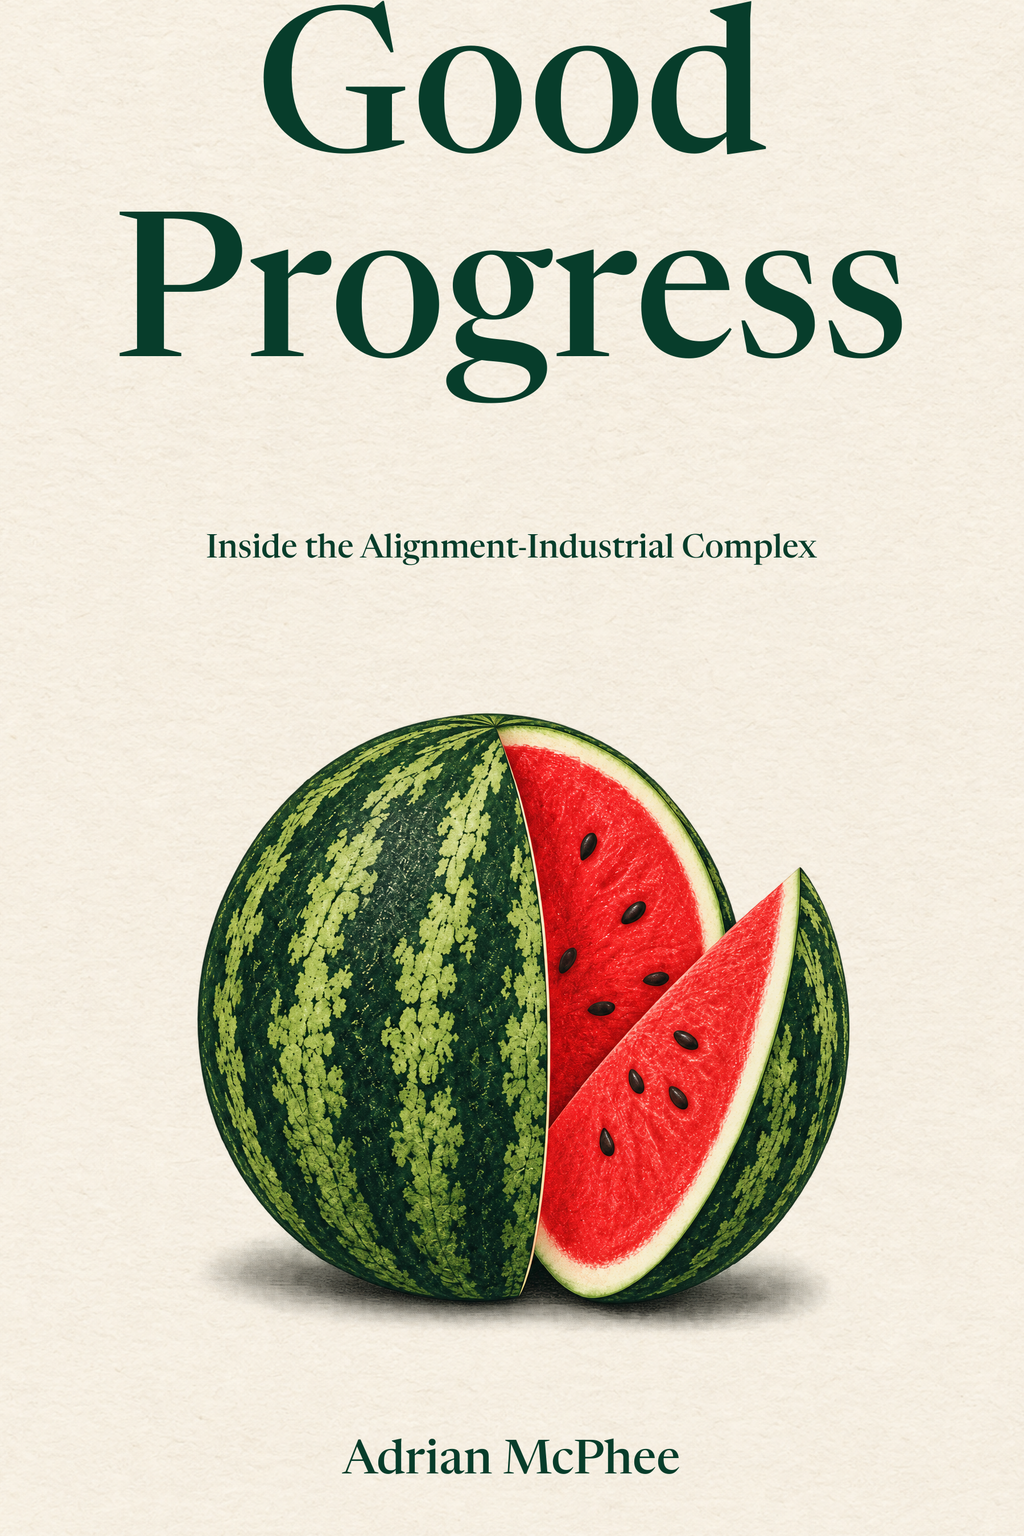
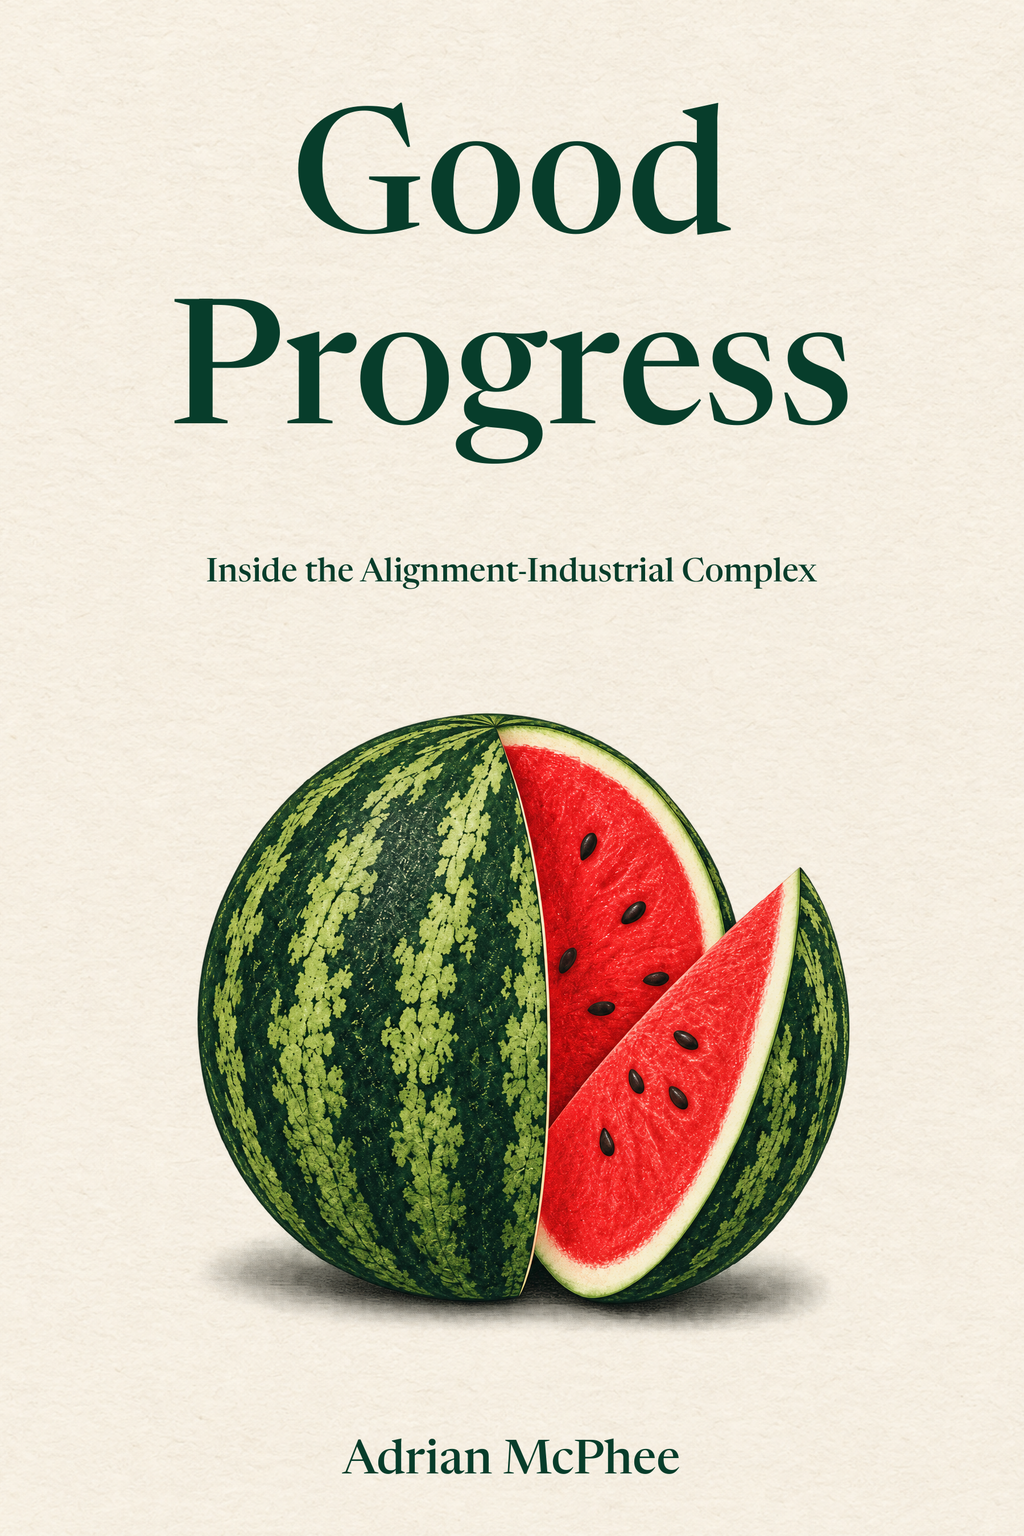
site: publish Good Progress v4.0.6

Changed region(s): [[0.125, 0.0, 0.9062, 0.3125], [0.1875, 0.3438, 0.8125, 0.4062]]

diff --git a/good-progress/index.html b/good-progress/index.html
@@ -68,7 +68,7 @@
   <link rel="preconnect" href="https://fonts.googleapis.com">
   <link rel="preconnect" href="https://fonts.gstatic.com" crossorigin>
   <link href="https://fonts.googleapis.com/css2?family=Instrument+Sans:wght@400;500;600;700&amp;display=swap" rel="stylesheet">
-  <link rel="stylesheet" href="tailwind.css?v=4.0.5">
+  <link rel="stylesheet" href="tailwind.css?v=4.0.6">
   <link rel="stylesheet" href="styles.css">
   <style>
     #sample-end { max-height: calc(100dvh - 15rem); overflow-y: auto; overscroll-behavior: contain; }
@@ -261,7 +261,7 @@
   </div>
 
   <a href="preview.html" style="display:none;">Preview chapters</a>
-  <script src="app.js?v=4.0.5"></script>
+  <script src="app.js?v=4.0.6"></script>
   <script>lucide.createIcons();</script>
 </body>
 </html>
